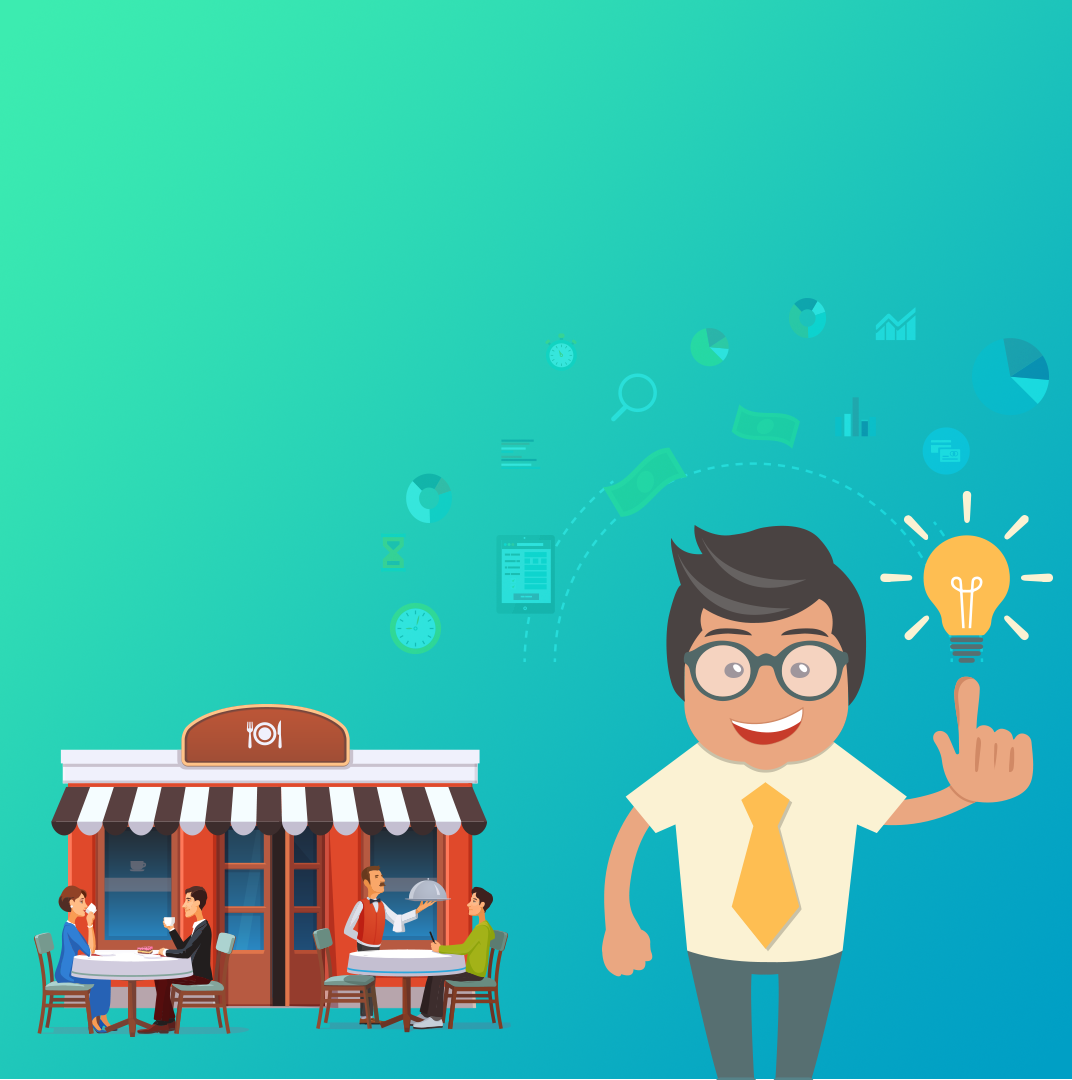
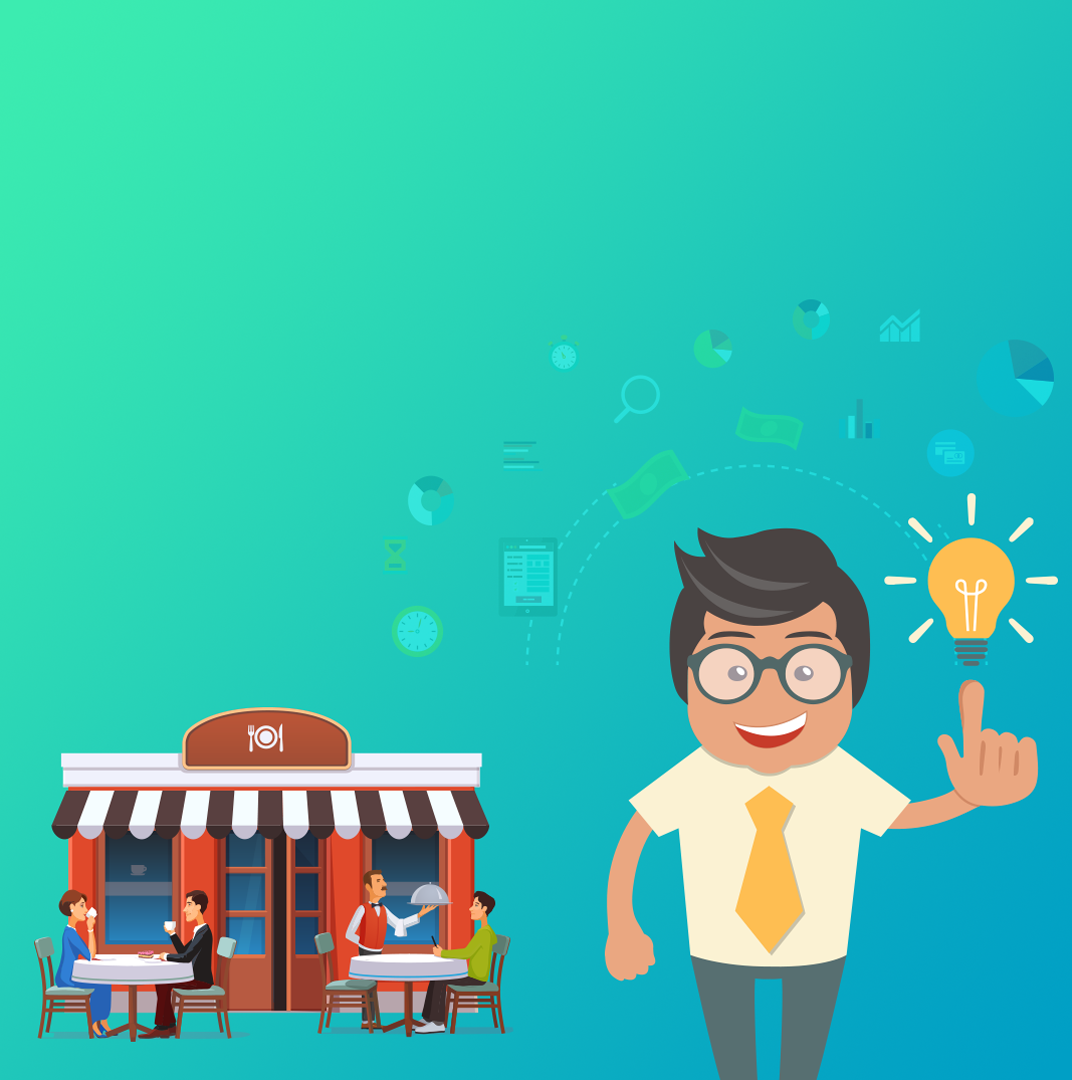
fix the slider of index

diff --git a/index.html b/index.html
@@ -41,21 +41,21 @@
                   <!-- Wrapper for slides -->
                   <div class="carousel-inner" role="listbox">
                     <div class="item active">
-                      <img src="img/slider/1.png" alt="...">
+                      <img src="img/slider/1.png" alt="..." class="img-reponsive" style="height: 100vh;">
                       <div class="carousel-caption">
                           <h3>time saver, money maker</h3>
                           <p>the easiest solution to excel your<br> restaurant business</p>
                       </div>
                     </div>
                     <div class="item">
-                      <img src="img/slider/2.png" alt="...">
+                      <img src="img/slider/2.png" alt="..." class="img-reponsive" style="height: 100vh;">
                       <div class="carousel-caption">
                           <h3>Smart food menu</h3>
                           <p>make available your restaurant’s food menu<br> anytime, anywhere for customers</p>
                       </div>
                     </div>
                     <div class="item">
-                      <img src="img/slider/3.png" alt="...">
+                      <img src="img/slider/3.png" alt="..." class="img-reponsive" style="height: 100vh;">
                       <div class="carousel-caption">
                           <h3>Automated Accounting & management</h3>
                           <p>easiest business solution of your daily restaurant’s<br> accounting & management</p>
